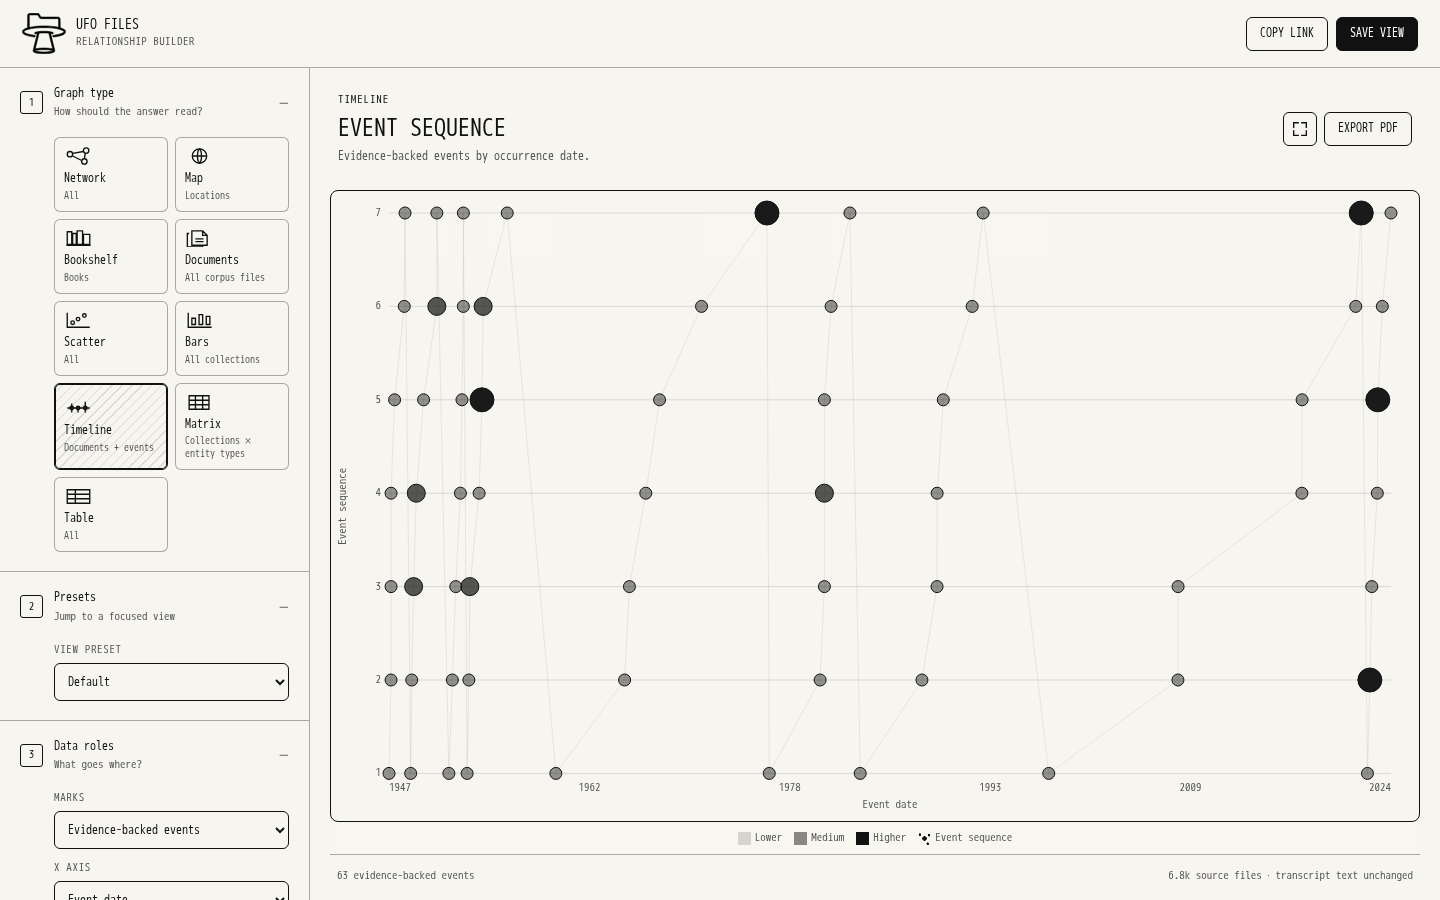
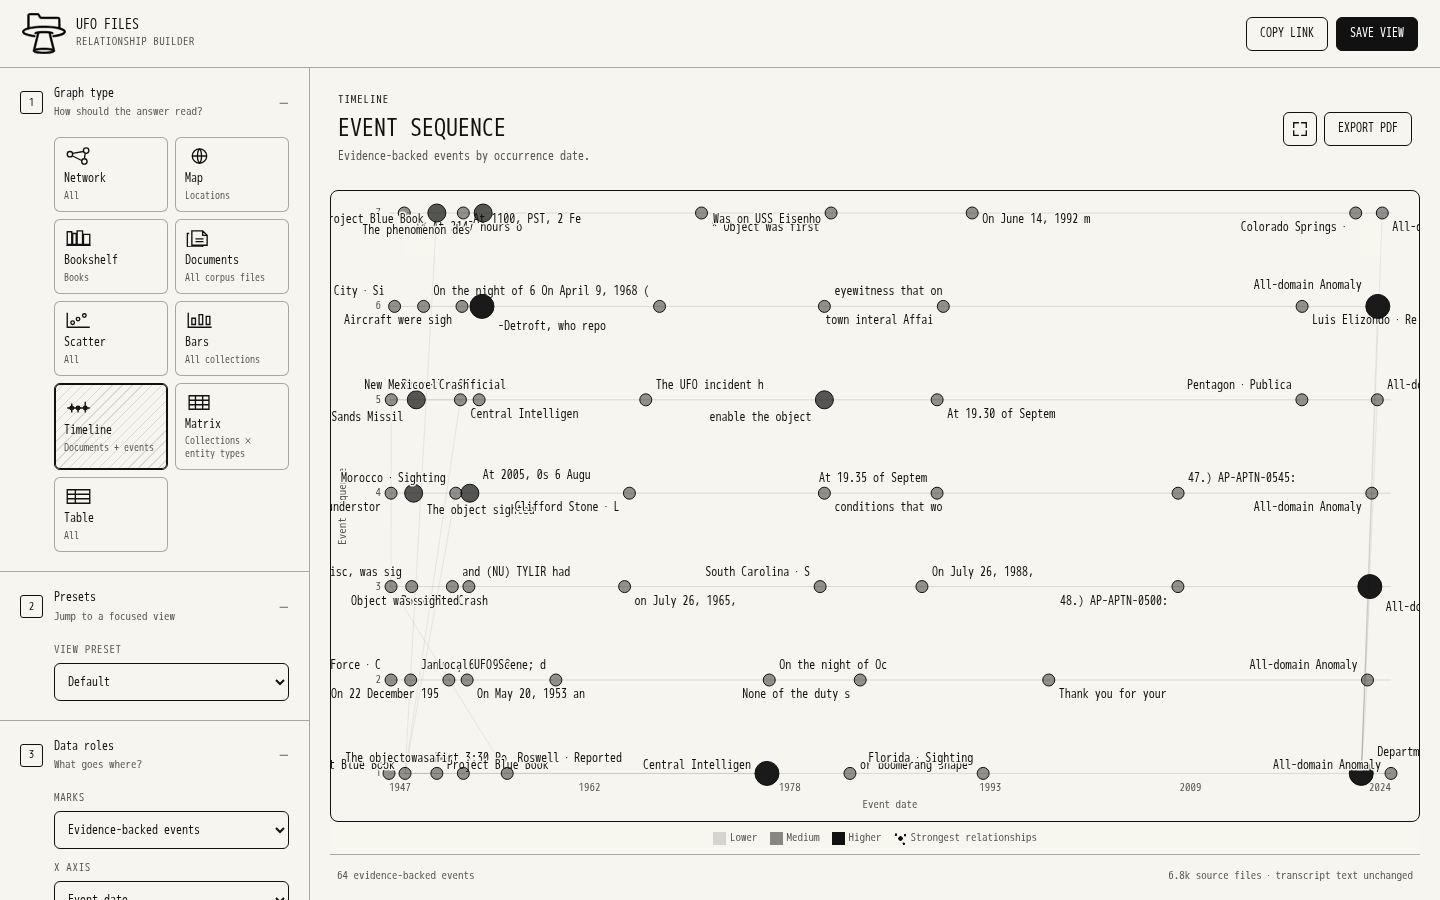
Link events through shared evidence

diff --git a/app.js b/app.js
@@ -96,7 +96,7 @@ const VIEW_DEFAULTS = {
   book: { size: "contextAdjustedMentions", color: "intensity", labels: "all", limit: 20 },
   document: { size: "words", color: "source", labels: "top", documentSearch: "" },
   bars: { aggregation: "source", y: "words", color: "intensity" },
-  timeline: { timelineRole: "event", x: "startDate", y: "timelineLane", size: "documentCount", color: "eventType", categories: ["date"], labels: "off", limit: 500, relationshipLayer: "always" },
+  timeline: { timelineRole: "event", x: "startDate", y: "timelineLane", size: "documentCount", color: "eventType", categories: ["date"], labels: "all", limit: 500, relationshipLayer: "always" },
   matrix: { matrixColumns: "category", color: "intensity" },
   table: { tableRole: "entity", tableColumns: ["name", "category", "mentions", "documentCount", "sourceCount"], tableSort: "mentions", tableDirection: "desc", tableSearch: "", limit: 60 }
 };
@@ -459,7 +459,7 @@ function renderControls() {
       + controlSelect("y", "Y axis", state.config.timelineRole === "event" ? eventFields : state.config.timelineRole === "entity" ? numericEntity : numericDoc);
     roles += state.config.timelineRole === "entity"
       ? relationshipTypeControl()
-      : `<div class="control"><div class="control-title">Relationship</div><select disabled><option>${state.config.timelineRole === "event" ? "Chronological sequence" : "Shared published entities"}</option></select></div>`;
+      : `<div class="control"><div class="control-title">Relationship</div><select disabled><option>Shared published entities</option></select></div>`;
   } else if (state.config.type === "matrix") {
     roles = `<div class="control"><div class="control-title">Rows</div><select disabled><option>Collections</option></select></div>` + controlSelect("matrixColumns", "Columns", [{ value: "entity", label: "Entities" }, { value: "category", label: "Entity categories" }]);
   } else {
@@ -479,7 +479,7 @@ function renderControls() {
   const moonTransitControl = state.config.type === "map" ? `<div class="control"><label for="moonTransitSeconds">On-screen Moon transit <span>${state.config.moonTransitSeconds}s</span></label><input id="moonTransitSeconds" type="range" min="2" max="10" step="1" value="${state.config.moonTransitSeconds}" data-range="moonTransitSeconds"></div>` : "";
   const supportsRelationships = ["scatter", "map", "timeline"].includes(state.config.type);
   const eventSequenceRelationships = state.config.type === "timeline" && state.config.timelineRole === "event";
-  const relationshipControls = supportsRelationships ? controlSelect("relationshipLayer", eventSequenceRelationships ? "Sequence lines" : "Relationship layer", [{ value: "off", label: "Off" }, { value: "hover", label: "On hover" }, { value: "always", label: "Always" }])
+  const relationshipControls = supportsRelationships ? controlSelect("relationshipLayer", "Relationship layer", [{ value: "off", label: "Off" }, { value: "hover", label: "On hover" }, { value: "always", label: "Always" }])
     + `<div class="control"><label>Connections per node <span>${state.config.relationshipNeighbors}</span></label><input type="range" min="1" max="5" step="1" value="${state.config.relationshipNeighbors}" data-range="relationshipNeighbors"></div>`
     + (eventSequenceRelationships ? "" : controlSelect("relationshipNodeSize", "Secondary-node size", [{ value: "inherit", label: "Inherit size metric" }, { value: "fixed", label: "Fixed" }]))
     + controlSelect("relationshipStrength", "Line strength", [{ value: "subtle", label: "Subtle" }, { value: "medium", label: "Medium" }, { value: "strong", label: "Strong" }]) : "";
@@ -830,8 +830,7 @@ function scatterSecondaryAnchors(egoNetworks, displayedIndex) {
 
 function drawIntensityLegend() {
   const relationshipView = ["scatter", "map", "timeline"].includes(state.config.type);
-  const relationshipLabel = state.config.type === "timeline" && state.config.timelineRole === "event" ? "Event sequence" : "Strongest relationships";
-  const egoKey = relationshipView && state.config.relationshipLayer !== "off" ? `<span class="legend-item"><i class="ego-key"></i>${relationshipLabel}</span>` : "";
+  const egoKey = relationshipView && state.config.relationshipLayer !== "off" ? `<span class="legend-item"><i class="ego-key"></i>Strongest relationships</span>` : "";
   const outlierKey = state.config.type === "scatter" ? `<span class="legend-item"><i class="outlier-key"></i>Axis-capped outlier</span>` : "";
   const inflationKey = state.config.type === "scatter" ? `<span class="legend-item"><i class="risk-key"></i>Potential mention inflation</span>` : "";
   $("#legend").innerHTML = `<span class="legend-item"><i style="background:#111;opacity:.14"></i>Lower</span><span class="legend-item"><i style="background:#111;opacity:.48"></i>Medium</span><span class="legend-item"><i style="background:#111"></i>Higher</span>${egoKey}${outlierKey}${inflationKey}`;
@@ -1611,23 +1610,39 @@ function renderTimeline() {
     x: clampedScale(new Date(timelineDate(item)).getTime(), xExtent, [margin.left, width - margin.right]),
     y: clampedScale(item[state.config.y], yExtent, [height - margin.bottom, margin.top])
   });
+  const eventEntityNames = new Map((state.catalog.entities || []).map(entity => [entity.id, entity.name]));
+  const eventLabel = item => {
+    const entities = (item.entityIds || []).map(id => eventEntityNames.get(id)).filter(Boolean);
+    const entity = entities.find(name => item.title.toLowerCase().includes(name.toLowerCase())) || entities[0];
+    return entity ? `${entity} · ${label(item.eventType)}` : item.title.slice(0, 18);
+  };
   let relationshipLayer = null;
   const relationshipLines = new Map();
   const relationshipNodes = new Map();
   let egoNetworks = new Map();
   if (state.config.timelineRole === "event" && state.config.relationshipLayer !== "off") {
     relationshipLayer = el("g", { class: `scatter-relationship-layer relationship-${state.config.relationshipLayer} strength-${state.config.relationshipStrength}` });
-    data.forEach((item, index) => {
-      for (let offset = 1; offset <= state.config.relationshipNeighbors && index + offset < data.length; offset++) {
-        const next = data[index + offset];
-        const a = positionFor(item), b = positionFor(next);
-        const line = el("line", { x1: a.x, y1: a.y, x2: b.x, y2: b.y, class: "scatter-relationship-line", "stroke-width": 1 });
-        [item.id, next.id].forEach(id => {
+    const links = new Map();
+    data.forEach(item => {
+      const related = data.filter(candidate => candidate.id !== item.id).map(candidate => {
+        const shared = (item.entityIds || []).filter(id => (candidate.entityIds || []).includes(id));
+        return { candidate, shared };
+      }).filter(link => link.shared.length).sort((a, b) => b.shared.length - a.shared.length).slice(0, state.config.relationshipNeighbors);
+      related.forEach(({ candidate, shared }) => {
+        const ids = [item.id, candidate.id].sort();
+        const key = ids.join("|");
+        if (!links.has(key) || shared.length > links.get(key).shared.length) links.set(key, { source: item, target: candidate, shared });
+      });
+    });
+    links.forEach(({ source, target, shared }) => {
+        const a = positionFor(source), b = positionFor(target);
+        const line = el("line", { x1: a.x, y1: a.y, x2: b.x, y2: b.y, class: "scatter-relationship-line", "stroke-width": Math.min(2, .7 + shared.length * .25) });
+        addTitle(line, `Shared: ${shared.map(id => eventEntityNames.get(id)).filter(Boolean).join(", ")}`);
+        [source.id, target.id].forEach(id => {
           if (!relationshipLines.has(id)) relationshipLines.set(id, []);
           relationshipLines.get(id).push(line);
         });
         relationshipLayer.append(line);
-      }
     });
     svg.append(relationshipLayer);
   } else if (state.config.timelineRole !== "event" && state.config.relationshipLayer !== "off") {
@@ -1679,7 +1694,9 @@ function renderTimeline() {
     });
     svg.append(dot);
     if (state.config.labels === "all" || (state.config.labels === "top" && index < 12)) {
-      svg.append(el("text", { x, y: Math.min(height - margin.bottom + 18, y + radius + state.config.labelSize), "text-anchor": "middle", class: "chart-label node-label" }, item.title.slice(0, 22)));
+      const right = index % 2 === 0;
+      const labelY = index % 4 < 2 ? Math.max(margin.top + 10, y - radius - 5) : Math.min(height - margin.bottom - 4, y + radius + state.config.labelSize);
+      svg.append(el("text", { x: x + (right ? radius + 4 : -radius - 4), y: labelY, "text-anchor": right ? "start" : "end", "font-size": 10, class: "chart-label node-label" }, eventLabel(item).slice(0, 18)));
     }
   });
   drawIntensityLegend();

diff --git a/tests/test_app.js b/tests/test_app.js
@@ -610,13 +610,14 @@ test("timeline defaults to evidence-backed event dates instead of cataloging tim
   assert.match(source, /timeline: \{ timelineRole: "event", x: "startDate", y: "timelineLane", size: "documentCount"[^\n]+relationshipLayer: "always"/);
   assert.match(source, /title = config\.timelineRole === "event" \? "Event Sequence"/);
   assert.match(source, /state\.config\.timelineRole === "event" && state\.config\.relationshipLayer !== "off"/);
-  assert.match(source, /"Chronological sequence"/);
+  assert.match(source, /const shared = \(item\.entityIds \|\| \[\]\)\.filter/);
+  assert.match(source, /return entity \? `\$\{entity\} · \$\{label\(item\.eventType\)\}`/);
   assert.match(source, /state\.catalog\.events \|\| \[\]/);
   assert.match(source, /item\.confidence >= \.9/);
   assert.match(source, /item\.startDate \|\| item\.documentDate/);
   assert.match(source, /Evidence-backed events by occurrence date/);
   assert.match(source, /\["createdAt", "documentDate", "startDate"\]\.includes\(xKey\)/);
-  assert.match(source, /labels: "off", limit: 500/);
+  assert.match(source, /labels: "all", limit: 500/);
   assert.match(source, /state\.config\.timelineRole === "event" \? \[1, 7\]/);
 });
 

diff --git a/scripts/build_catalog.py b/scripts/build_catalog.py
@@ -479,6 +479,30 @@ def overlay_curated_events(extracted: list[dict], reviewed: list[dict]) -> list[
     return extracted
 
 
+def attach_event_entities(
+    events: list[dict],
+    segment_entities: dict[str, list[str]],
+    document_title_entities: dict[str, list[str]],
+    registry: dict,
+    published: dict[str, Candidate],
+    entity_ids: dict[str, str],
+) -> None:
+    """Attach specific published entities evidenced by each event's supporting passages."""
+    for event in events:
+        keys: set[str] = set()
+        for evidence in event.get("evidence", []):
+            keys.update(document_title_entities.get(evidence["documentId"], []))
+            if "segment" in evidence:
+                keys.update(segment_entities.get(f"{evidence['documentId']}:{evidence['segment']}", []))
+            for _, canonical, category, _, _ in extract_mentions(evidence.get("excerpt", ""), registry):
+                keys.add(f"{category}:{entity_key(canonical, category)}")
+        for _, canonical, category, _, _ in extract_mentions(event.get("title", ""), registry):
+            keys.add(f"{category}:{entity_key(canonical, category)}")
+        specific = [key for key in keys
+                    if key in published and published[key].category not in {"date", "subject", "book"}]
+        event["entityIds"] = sorted(entity_ids[key] for key in specific)
+
+
 def clean_space(value: str) -> str:
     return re.sub(r"\s+", " ", value.replace("\u00a0", " ")).strip(" \t\r\n,;:()[]{}")
 
@@ -805,6 +829,14 @@ def extract_title_mentions(title: str, registry: dict[str, tuple[str, str]]) -> 
     """Use document titles as curated identity evidence without treating arbitrary title case as NER."""
     words = clean_space(title).split()
     found: dict[str, tuple[str, str, str, float, bool]] = {}
+    for match in KNOWN_PATTERN.finditer(title):
+        raw = match.group(0)
+        lookup = KNOWN_LOOKUP.get(known_lookup_key(raw))
+        if lookup is None:
+            continue
+        canonical, category = KNOWN[lookup]
+        key = f"{category}:{entity_key(canonical, category)}"
+        found.setdefault(key, (raw, canonical, category, 0.99, True))
     for width in range(min(8, len(words)), 0, -1):
         for start in range(len(words) - width + 1):
             raw = clean_space(" ".join(words[start:start + width])).strip("-'_.")
@@ -905,6 +937,7 @@ def build(
     candidates: dict[str, Candidate] = {}
     documents: list[dict] = []
     segment_entities: dict[str, list[str]] = {}
+    document_title_entities: dict[str, list[str]] = collections.defaultdict(list)
     segment_text: dict[str, str] = {}
     source_counts: collections.Counter = collections.Counter()
     source_words: collections.Counter = collections.Counter()
@@ -976,6 +1009,7 @@ def build(
         title_sid = f"{doc_id}:title"
         for raw, canonical, category, confidence, curated in extract_title_mentions(title, registry):
             key = f"{category}:{entity_key(canonical, category)}"
+            document_title_entities[doc_id].append(key)
             candidate = candidates.get(key)
             if candidate is None:
                 candidate = candidates[key] = Candidate(canonical, category, curated)
@@ -1031,6 +1065,7 @@ def build(
     published_items.sort(key=publication_rank, reverse=True)
     published = dict(published_items)
     entity_ids = {key: stable_id("ent", key) for key in published}
+    attach_event_entities(events, segment_entities, document_title_entities, registry, published, entity_ids)
     entities = []
     for key, candidate in published_items:
         extraction = candidate.extraction_total / max(1, candidate.mentions)

diff --git a/tests/test_build_catalog.py b/tests/test_build_catalog.py
@@ -3,7 +3,7 @@ import tempfile
 import unittest
 from pathlib import Path
 
-from scripts.build_catalog import Candidate, build, classify_phrase, comparison_key, curated_events, duplicate_candidates, entity_key, extract_mentions, extract_title_mentions, inflation_risk, load_registry, merge_events, normalized_date, overlay_curated_events, sentence_segments, temporal_candidates
+from scripts.build_catalog import Candidate, attach_event_entities, build, classify_phrase, comparison_key, curated_events, duplicate_candidates, entity_key, extract_mentions, extract_title_mentions, inflation_risk, load_registry, merge_events, normalized_date, overlay_curated_events, sentence_segments, temporal_candidates
 
 
 class ClassificationTests(unittest.TestCase):
@@ -146,6 +146,25 @@ class ClassificationTests(unittest.TestCase):
         self.assertEqual(len(events), 1)
         self.assertEqual(events[0]["id"], "curated")
         self.assertEqual(len(events[0]["evidence"]), 2)
+
+    def test_events_receive_specific_entities_from_their_evidence(self):
+        roswell = Candidate("Roswell", "location", curated=True)
+        ufo = Candidate("UFO", "subject", curated=True)
+        published = {"location:roswell": roswell, "subject:ufo": ufo}
+        events = [{"title": "Roswell incident", "evidence": [
+            {"documentId": "doc-a", "segment": 4, "excerpt": "A UFO was observed near Roswell."}
+        ]}]
+
+        attach_event_entities(
+            events,
+            {"doc-a:4": ["location:roswell", "subject:ufo"]},
+            {"doc-a": ["location:roswell"]},
+            {},
+            published,
+            {"location:roswell": "ent-roswell", "subject:ufo": "ent-ufo"},
+        )
+
+        self.assertEqual(events[0]["entityIds"], ["ent-roswell"])
 
     def test_prominence_inflation_risk_requires_lost_document_coverage(self):
         self.assertEqual(inflation_risk(0.98, 870), "high")
@@ -332,6 +351,11 @@ class ClassificationTests(unittest.TestCase):
             ("Extraterrestrial Intelligence", "subject"),
         }.issubset(entities))
         self.assertNotIn(("Extraterrestrial Intelligence", "organization"), entities)
+
+    def test_extracts_known_roswell_location_from_document_titles(self):
+        mentions = extract_title_mentions("Roswell Witness Testimony", {})
+
+        self.assertIn(("Roswell", "location"), {(canonical, category) for _, canonical, category, _, _ in mentions})
 
     def test_preserves_initials_and_ignores_declassification_boilerplate(self):
         segments = list(sentence_segments(

diff --git a/README.md b/README.md
@@ -77,7 +77,7 @@ The builder asks for five decisions:
 
 The default view is an ordinary builder configuration and uses the same rendering and data path as every saved view. Presets refine the currently selected graph type instead of replacing it: for example, applying Significant People to Network keeps the network layout and narrows its entities, while applying it to Map keeps the globe selected. Numeric scatter axes use a robust 95th-percentile cap only when the maximum is at least 50% beyond that cap; capped marks stay visible at the plot edge with a heavier outline and retain their exact values in the inspector and tooltip.
 
-The Timeline defaults to an event sequence rather than transcription activity. It includes physical incidents—observations, detections, encounters, landings, and crashes—plus source-backed disclosure, hearing, program, publication, and official-report milestones. Every event requires an unambiguous day-level date and explicit surrounding language or a reviewed entry in `data/curated_events.json`; a curated milestone is published only when its cited source document is present. Trusted source metadata and document headers may separately establish a document date. FOIA processing, declassification boilerplate, archive accessions, and OCR or cataloging timestamps remain administrative dates and never position an event. Every accepted or rejected candidate retains its evidence, method, confidence, and semantic kind in `data/date_review.json`; low-confidence and unclassified dates remain review-only.
+The Timeline defaults to an event sequence rather than transcription activity. It includes physical incidents—observations, detections, encounters, landings, and crashes—plus source-backed disclosure, hearing, program, publication, and official-report milestones. Every event requires an unambiguous day-level date and explicit surrounding language or a reviewed entry in `data/curated_events.json`; a curated milestone is published only when its cited source document is present. Event labels are visible by default, and relationship lines connect events only when their supporting evidence shares a specific published person, place, organization, agency, or program; chronological adjacency alone never creates a link. Trusted source metadata and document headers may separately establish a document date. FOIA processing, declassification boilerplate, archive accessions, and OCR or cataloging timestamps remain administrative dates and never position an event. Every accepted or rejected candidate retains its evidence, method, confidence, and semantic kind in `data/date_review.json`; low-confidence and unclassified dates remain review-only.
 
 Scatter plots, maps, and entity timelines can add a deduplicated relationship layer through Graph Properties. The layer can be off, hover-only, or always visible; it also exposes the strongest-connections limit, evidence floor, relationship type, secondary-node sizing, and line strength. Secondary entities retain their native position and appear only once even when several primary entities connect to them. Maps render elevated globe arcs, while entity timelines connect marks in date/value space. The default shows one strongest connection per node with an always-visible subtle line. These choices persist in saved-view URLs.
 
